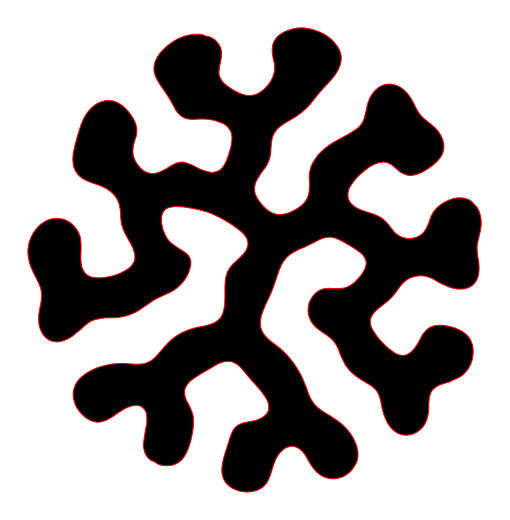
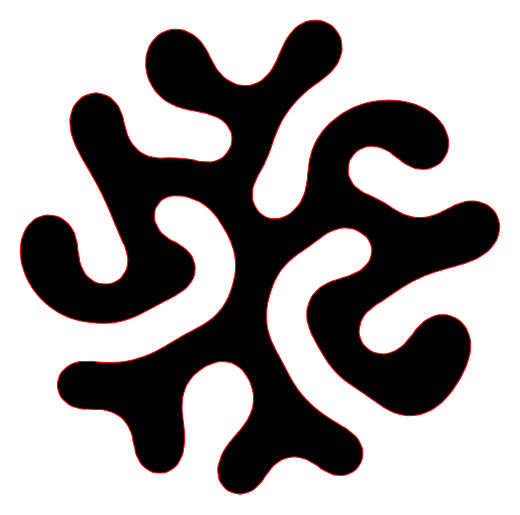
Let Lobes run to settle
Six hundred nodes go in a hundred steps, so nearly all of this one was the
relaxation it was not getting. With the pause off it runs to 977 and the arms
splay out evenly instead of stopping where the filling left them.

Auto-fit is on here, so there is no frame to revisit.

Claude-Session: https://claude.ai/code/session_01WBfLDpqE8GwFoaVpnuxJyH

diff --git a/presets.js b/presets.js
@@ -72,9 +72,12 @@ const PRESET_LIST = [
   },
   {
     name: 'Lobes', group: 'growth',
-    note: 'A repulsion radius half again as wide, longer edges, and stopped early: fat arms with room between them instead of a filled disc.',
+    note: 'A repulsion radius half again as wide, longer edges, and a budget of six hundred: fat arms with room between them instead of a filled disc. It spends the budget in a hundred steps and then takes nearly nine hundred more to settle, pushing the arms apart into an even splay.',
     cfg: { seeds: [seed('circle')], repulsionRadius: 150, repulsionFactor: 9,
-           minEdge: 15, maxEdge: 24, maxNodes: 600 },
+           minEdge: 15, maxEdge: 24, maxNodes: 600,
+           // with so few nodes the budget goes almost at once; what shapes this
+           // one is the long relaxation afterwards
+           pauseAtBudget: false },
   },
   {
     name: 'Meander', group: 'growth',

diff --git a/README.md b/README.md
@@ -33,7 +33,7 @@ only thing differing between them is the form, and any walls are left visible.
 | | |
 |---|---|
 | ![Coral](examples/coral.png) | **Coral** — one circle, left to fill the plane. The baseline the rest depart from. |
-| ![Lobes](examples/lobes.png) | **Lobes** — a repulsion radius half again as wide, longer edges, stopped early. Fat arms with room between them instead of a filled disc. |
+| ![Lobes](examples/lobes.png) | **Lobes** — a repulsion radius half again as wide, longer edges, and a budget of six hundred: fat arms with room between them instead of a filled disc. With the pause off, the budget goes in a hundred steps and the next nine hundred are spent pushing those arms apart into an even splay. |
 | ![Meander](examples/meander.png) | **Meander** — weak attraction against heavy repulsion with the damping right down. The curve settles slowly and wanders into a labyrinth instead of packing radially. It runs at five steps a frame, since at one it barely moves, and holds a still frame sized for where it ends up: it spreads nearly three times as wide as it is tall. |
 | ![Sprawl](examples/sprawl.png) | **Sprawl** — the Meander forces with the budget more than trebled and *Pause when the budget is reached* switched off. Growth still stops at the last node, but the run does not: the curve keeps relaxing into the room it has left and ends only when the settle test says it has stopped moving. It spends the budget at step 8,843 and settles at 11,385, packing the plane far denser than the Meander ever gets. |
 | ![Strand](examples/strand.png) | **Strand** — an open seed has two ends, so it meanders rather than closing into a blob. With no inside to fill, only the edge is drawn. |
